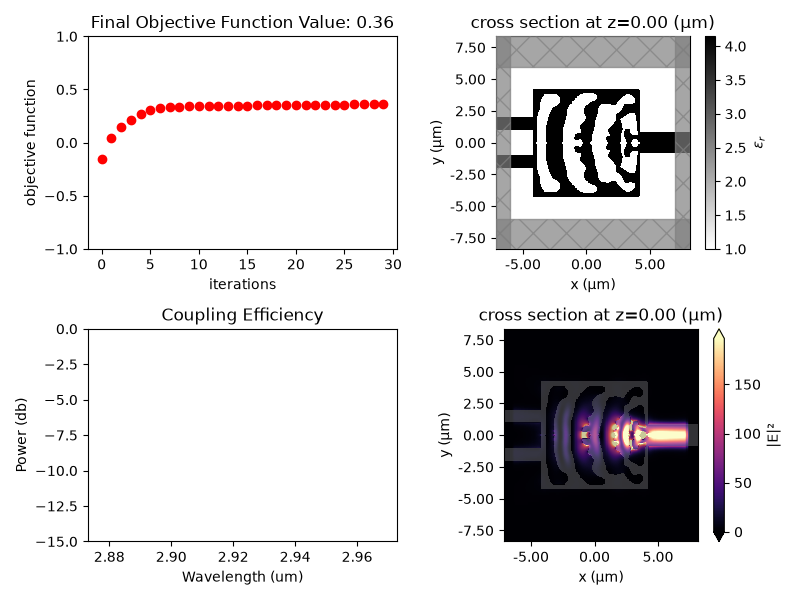
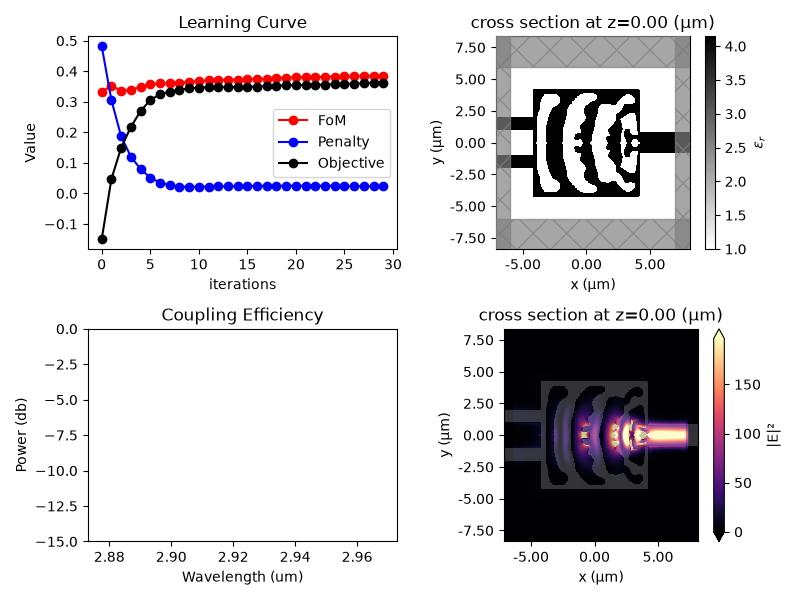
Auto-commit after inverse_design_5.py done

Changed region(s): [[0.0625, 0.03, 0.5, 0.42], [0.0312, 0.12, 0.0938, 0.33], [0.0625, 0.36, 0.0938, 0.42]]

diff --git a/inverse_design_5.py b/inverse_design_5.py
@@ -491,16 +491,6 @@ def report_final_design():
 	penalty = np.array(history_dict["penalty"])
 	FoM = np.array(history_dict["FoM"])
 
-	fig, ax = plt.subplots(1, 2, figsize=(10,4))
-	ax[0].plot(FoM, "ro-", label="FoM")
-	ax[0].plot(penalty, "bo-", label="Penalty")
-	ax[0].plot(obj_vals, "ko-", label="Objective")
-	ax[0].legend()
-	ax[0].set_xlabel("iterations")
-	ax[0].set_ylabel("Value")
-	ax[0].set_title(f"Learning Curve")
-	ax[0].set_ylim(-1.1, 1.1)
-
 	last_params = history_dict["params"][-1]
 
 	field_xy = td.FieldMonitor(
@@ -545,14 +535,15 @@ def report_final_design():
 	ax[1, 0].set_xlim(wavelength_array[0], wavelength_array[-1])
 	ax[1, 0].set_title("Coupling Efficiency")
 	sim_data_plot.plot_field("field_xy", "E", "abs^2", z=0, ax=ax[1, 1])
-	ax[0, 0].plot(obj_vals, "ro")
+	ax[0, 0].plot(FoM, "ro-", label="FoM")
+	ax[0, 0].plot(penalty, "bo-", label="Penalty")
+	ax[0, 0].plot(obj_vals, "ko-", label="Objective")	
 	ax[0, 0].set_xlabel("iterations")
-	ax[0, 0].set_ylabel("objective function")
-	ax[0, 0].set_ylim(-1, 1)
-	ax[0, 0].set_title(f"Final Objective Function Value: {obj_vals[-1]:.2f}")
+	ax[0, 0].set_ylabel("Value")
+	ax[0, 0].set_title(f"Learning Curve")
+	ax[0, 0].legend()
 	fig.savefig("./temp/final_results.png")
 
-
 if __name__ == "__main__":
-	main_loop(override=False)
+	# main_loop(override=False)
 	report_final_design()
